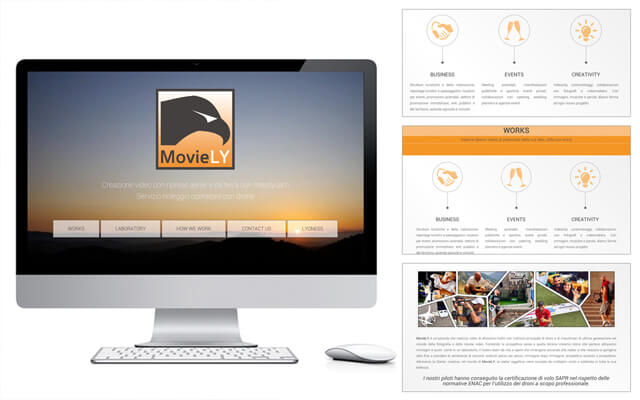
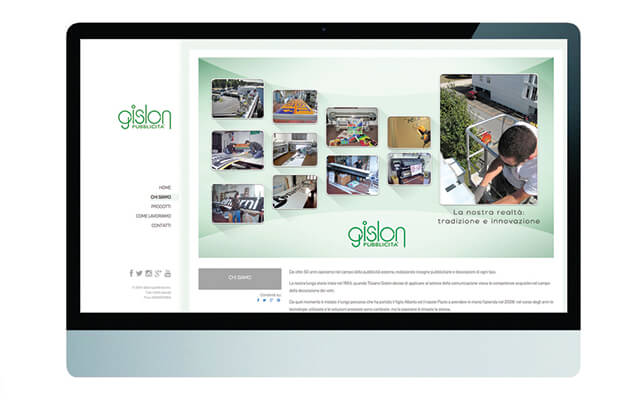
removed duplicated adress.Updated portfolio images, replaced moviely website with gislon ws.added 2 contents in portfolio pages. waiting for text

diff --git a/portfolio/portfolio.html b/portfolio/portfolio.html
@@ -343,20 +343,20 @@ Invio mirato di comunicati alle più prestigiose redazioni italiane e straniere.
         <div class="span6">
           <div class="project-description">
             <div class="project-title clearfix">
-              <h3>sito web vetrina</h3>
+              <h3>grafica sito web</h3>
               <span class="show_hide close">
                 <i class="icon-cancel"></i>
               </span>
             </div>
             <div class="project-info">
               <div>
-                <span>Cliente</span> MovieLy
+                <span>Cliente</span> Gislon pubblicità
               </div>
               <div>
                 <span>Data</span> 2015
               </div>
               <div>
-                Semplice sito vetrina in HTML5 con la presenza di video integrato e form di contatto.
+                Studio grafico per sito vetrina in HTML5 con photo gallery.
               </div>
             </div>
           </div>
@@ -613,6 +613,60 @@ Invio mirato di comunicati alle più prestigiose redazioni italiane e straniere.
         </div>
       </div>
 
+      <div id="slidingDiv19" class="toggleDiv row-fluid single-project">
+        <div class="span6">
+          <img src="../images/Portfolio20.jpg" alt="project 20">
+        </div>
+        <div class="span6">
+          <div class="project-description">
+            <div class="project-title clearfix">
+              <h3>Lorem Ipsum</h3>
+              <span class="show_hide close">
+                <i class="icon-cancel"></i>
+              </span>
+            </div>
+            <div class="project-info">
+              <div>
+                <span>Cliente</span> Lorem Ipsum
+              </div>
+              <div>
+                <span>Data</span> Lorem Ipsum
+              </div>
+              <div>
+                Lorem Ipsum
+              </div>
+            </div>
+          </div>
+        </div>
+      </div>
+
+      <div id="slidingDiv20" class="toggleDiv row-fluid single-project">
+        <div class="span6">
+          <img src="../images/Portfolio21.jpg" alt="project 21">
+        </div>
+        <div class="span6">
+          <div class="project-description">
+            <div class="project-title clearfix">
+              <h3>Lorem Ipsum</h3>
+              <span class="show_hide close">
+                <i class="icon-cancel"></i>
+              </span>
+            </div>
+            <div class="project-info">
+              <div>
+                <span>Cliente</span> Lorem Ipsum
+              </div>
+              <div>
+                <span>Data</span> Lorem Ipsum
+              </div>
+              <div>
+                Lorem Ipsum
+              </div>
+            </div>
+          </div>
+        </div>
+      </div>
+
       <ul id="portfolio-grid" class="thumbnails row">
         <li class="span3 mix graficaComunicazione">
           <div class="thumbnail">
@@ -728,7 +782,7 @@ Invio mirato di comunicati alle più prestigiose redazioni italiane e straniere.
             <a href="#single-project" class="show_hide more" rel="#slidingDiv9">
               <i class="icon-plus"></i>
             </a>
-            <h3>sito web vetrina</h3>
+            <h3>grafica sito web</h3>
             <p></p>
             <div class="mask"></div>
           </div>
@@ -837,6 +891,30 @@ Invio mirato di comunicati alle più prestigiose redazioni italiane e straniere.
               <i class="icon-plus"></i>
             </a>
             <h3>progettazione d'interni</h3>
+            <p></p>
+            <div class="mask"></div>
+          </div>
+        </li>
+
+        <li class="span3 mix contenuti">
+          <div class="thumbnail">
+            <img src="../images/Portfolio20.jpg" alt="project 20">
+            <a href="#single-project" class="show_hide more" rel="#slidingDiv19">
+              <i class="icon-plus"></i>
+            </a>
+            <h3>lorem ipsum</h3>
+            <p></p>
+            <div class="mask"></div>
+          </div>
+        </li>
+
+        <li class="span3 mix contenuti">
+          <div class="thumbnail">
+            <img src="../images/Portfolio21.jpg" alt="project 21">
+            <a href="#single-project" class="show_hide more" rel="#slidingDiv20">
+              <i class="icon-plus"></i>
+            </a>
+            <h3>lorem ipsum</h3>
             <p></p>
             <div class="mask"></div>
           </div>

diff --git a/en/portfolio/portfolio.html b/en/portfolio/portfolio.html
@@ -348,20 +348,20 @@ Graphic design and layout for the catalogue of the winter and summer seasons of 
         <div class="span6">
           <div class="project-description">
             <div class="project-title clearfix">
-              <h3>website showcase</h3>
+              <h3>website template</h3>
               <span class="show_hide close">
                 <i class="icon-cancel"></i>
               </span>
             </div>
             <div class="project-info">
               <div>
-                <span>Client</span> MovieLy
+                <span>Client</span> Gislon pubblicità
               </div>
               <div>
-                <span>Dat</span> 2015
+                <span>Date</span> 2015
               </div>
               <div>
-A simple website showcase site in HTML5 with the presence of an integrated video and contact form.
+Graphic and templating study for a website showcase site in HTML5 with the presence of photo galleries.
               </div>
             </div>
           </div>
@@ -611,6 +611,60 @@ Built on the Wordpress platform with a custom theme, is customizable by the clie
           </div>
         </div>
       </div>
+    
+      <div id="slidingDiv19" class="toggleDiv row-fluid single-project">
+        <div class="span6">
+          <img src="../../images/Portfolio20.jpg" alt="project 20">
+        </div>
+        <div class="span6">
+          <div class="project-description">
+            <div class="project-title clearfix">
+              <h3>Lorem Ipsum</h3>
+              <span class="show_hide close">
+                <i class="icon-cancel"></i>
+              </span>
+            </div>
+            <div class="project-info">
+              <div>
+                <span>Cliente</span> Lorem Ipsum
+              </div>
+              <div>
+                <span>Data</span> Lorem Ipsum
+              </div>
+              <div>
+                Lorem Ipsum
+              </div>
+            </div>
+          </div>
+        </div>
+      </div>
+
+      <div id="slidingDiv20" class="toggleDiv row-fluid single-project">
+        <div class="span6">
+          <img src="../../images/Portfolio21.jpg" alt="project 21">
+        </div>
+        <div class="span6">
+          <div class="project-description">
+            <div class="project-title clearfix">
+              <h3>Lorem Ipsum</h3>
+              <span class="show_hide close">
+                <i class="icon-cancel"></i>
+              </span>
+            </div>
+            <div class="project-info">
+              <div>
+                <span>Cliente</span> Lorem Ipsum
+              </div>
+              <div>
+                <span>Data</span> Lorem Ipsum
+              </div>
+              <div>
+                Lorem Ipsum
+              </div>
+            </div>
+          </div>
+        </div>
+      </div>
 
       <ul id="portfolio-grid" class="thumbnails row">
         <li class="span3 mix graficaComunicazione">
@@ -836,6 +890,30 @@ Built on the Wordpress platform with a custom theme, is customizable by the clie
               <i class="icon-plus"></i>
             </a>
             <h3>internal design</h3>
+            <p></p>
+            <div class="mask"></div>
+          </div>
+        </li>
+
+        <li class="span3 mix contenuti">
+          <div class="thumbnail">
+            <img src="../../images/Portfolio20.jpg" alt="project 20">
+            <a href="#single-project" class="show_hide more" rel="#slidingDiv19">
+              <i class="icon-plus"></i>
+            </a>
+            <h3>lorem ipsum</h3>
+            <p></p>
+            <div class="mask"></div>
+          </div>
+        </li>
+
+        <li class="span3 mix contenuti">
+          <div class="thumbnail">
+            <img src="../../images/Portfolio21.jpg" alt="project 21">
+            <a href="#single-project" class="show_hide more" rel="#slidingDiv20">
+              <i class="icon-plus"></i>
+            </a>
+            <h3>lorem ipsum</h3>
             <p></p>
             <div class="mask"></div>
           </div>

diff --git a/index.html b/index.html
@@ -805,7 +805,6 @@ was an error.</div>
 </div>
 <div class="container container-info">
 <div class="span9 center contact-info">
-<p>Via Diego Guicciardi, 9 - 20158 Milano</p><p>Tel. +39 02 80 88 71 65</p>
 <p class="indirizzi-desktop">
 	Via D. Guicciardi, 9 - 20158 Milano<br
 	>Via A. Pacinotti, 43/c - 20851 Lissone (MB)</p>
